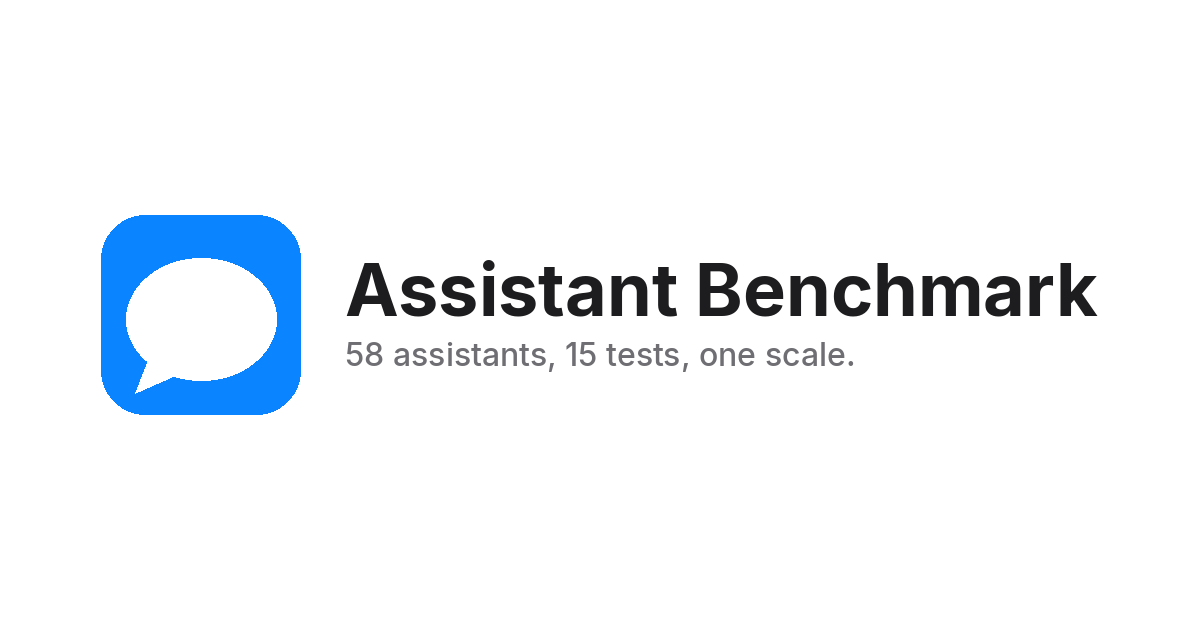
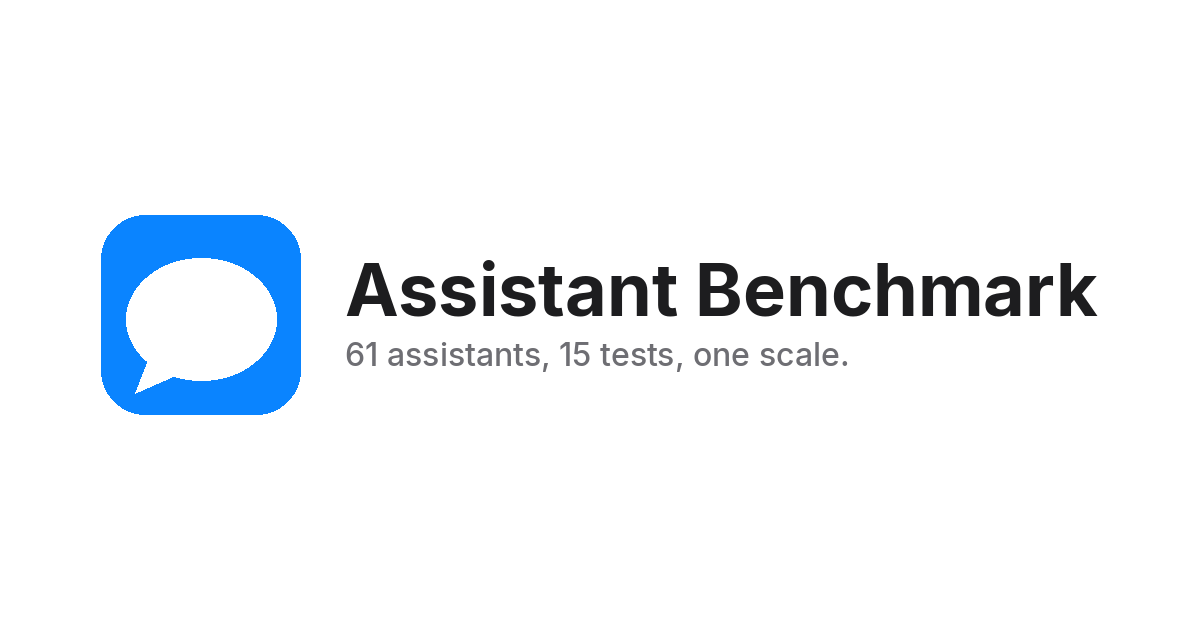
Add Brea, Cole (Pocodot) and Doubao from request-form submissions

Changed region(s): [[0.2775, 0.5429, 0.7092, 0.6032]]

diff --git a/data/agents/doubao/summary.md b/data/agents/doubao/summary.md
@@ -1,0 +1,7 @@
+# Doubao
+
+Site: https://www.doubao.com/
+
+ByteDance's consumer AI assistant (豆包): web and mobile apps, Chinese-language first, with chat, writing, translation, coding and video generation. Not a messaging-native agent; on the board as a stretch product. Requested via the form (issue #77).
+
+No public quotes collected yet.

diff --git a/data/agents/cole/summary.md b/data/agents/cole/summary.md
@@ -1,0 +1,7 @@
+# Cole
+
+Site: https://pocodot.ai/
+
+Pocodot's AI chief of staff: lives in Slack, Teams, WhatsApp, Telegram, LINE, iMessage and email, joins calls, drafts comms, books travel and triages inboxes in 29 languages. Company registered in Thailand. Requested via the form (issue #59).
+
+No public quotes collected yet.

diff --git a/data/agents/brea/summary.md b/data/agents/brea/summary.md
@@ -1,0 +1,7 @@
+# Brea
+
+Site: https://brea.ai/
+
+Personal assistant over iMessage, SMS, RCS, Telegram and web chat that books, replies to email and files documents across 2,100+ connected apps. Requested via the form (issue #58).
+
+No public quotes collected yet.
